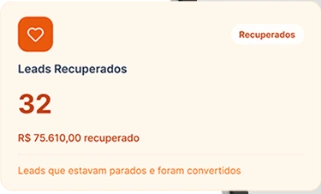
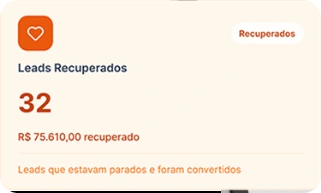
Corrige fragmentos nos cards do hero e o ritmo dos feixes
Fragmentos sobrepostos
- Os recortes dos cards eram retângulos e carregavam junto um pedaço do
  notebook atrás deles: a tela verde, o texto vermelho, a borda branca.
  Esse pedaço viajava com o card enquanto ele flutuava, e era o que
  aparecia como elemento sobrepondo o outro
- Cada card agora é mascarado só ao próprio corpo, pela diferença entre o
  composto e o notebook limpo, com a máscara fechada num retângulo
  arredondado para a borda sair limpa
- A sombra saía junto com o fundo e volta como drop-shadow no CSS,
  acompanhando o card enquanto ele se move

Feixes de luz
- Trocado o easing por linear: o ponto desacelerava no fim e parecia
  travar antes de reiniciar
- Pausa entre voltas reduzida de 55% para 30% do ciclo
- Na faixa verde o feixe não aparecia, porque o traço já era quase branco
  e o ponto também. O traço ficou mais discreto e o ponto foi a branco
  cheio

diff --git a/css/styles.css b/css/styles.css
@@ -162,17 +162,24 @@ a { color: inherit; }
                     transparent 0%, var(--sweep) 50%, transparent 100%);
   background-repeat: no-repeat;
   background-size: 55% 100%;
-  animation: hg-sweep 2.6s cubic-bezier(0.4, 0, 0.3, 1) infinite;
+  /* linear: o ponto atravessa em velocidade constante. Com easing ele
+     desacelerava no fim e parecia travar antes de reiniciar. */
+  animation: hg-sweep 2.4s linear infinite;
 }
 @keyframes hg-sweep {
-  0%       { background-position: -70% 0; }
-  45%,100% { background-position: 170% 0; }
+  0%       { background-position: -65% 0; }
+  70%,100% { background-position: 165% 0; }
 }
 
 /* o ponto precisa ser mais claro que o traço: branco sobre fundo escuro,
    lima onde o rótulo já está sobre fundo claro */
 .eyebrow            { --sweep: rgba(255, 255, 255, 0.95); }
 .sec--paper .eyebrow{ --sweep: var(--lime); }
+
+/* na faixa verde o rótulo já é quase branco, então o ponto branco sumia.
+   O traço fica mais discreto e o ponto vai a branco cheio. */
+.eyebrow--on-teal          { --sweep: #fff; }
+.eyebrow--on-teal::before  { background-color: rgba(237, 240, 238, 0.4); }
 /* No Figma este eyebrow está #1b6b5b sobre fundo #1b6b5b (invisível).
    Mantido legível de propósito — ver nota no README. */
 .eyebrow--on-teal { color: rgba(237, 240, 238, 0.85); }
@@ -1084,6 +1091,9 @@ a { color: inherit; }
 }
 .hero-card img {
   width: 100%;
+  /* os recortes trazem só o corpo do card; a sombra que estava no bitmap saiu
+     junto com o fundo e volta aqui, acompanhando o card enquanto ele flutua */
+  filter: drop-shadow(0 9px 20px rgba(5, 34, 29, 0.17));
   animation: hg-drift var(--dur, 6s) ease-in-out var(--delay, 0s) infinite;
 }
 

diff --git a/index.html b/index.html
@@ -75,19 +75,19 @@
             <img src="assets/hero-card-oportunidades.webp" alt="" aria-hidden="true"
                  style="--dur:6.4s;--delay:0s;--amp:19%;--rot:0.6deg">
           </span>
-          <span class="hero-card" style="--x:72.02%;--y:26.52%;--w:10.82%">
+          <span class="hero-card" style="--x:72.05%;--y:26.52%;--w:10.79%">
             <img src="assets/hero-card-promotores.webp" alt="" aria-hidden="true"
                  style="--dur:5.2s;--delay:-1.8s;--amp:25%;--rot:-1deg">
           </span>
-          <span class="hero-card" style="--x:27.82%;--y:33.95%;--w:10.13%">
+          <span class="hero-card" style="--x:27.82%;--y:34.0%;--w:10.13%">
             <img src="assets/hero-card-leads.webp" alt="" aria-hidden="true"
                  style="--dur:7.1s;--delay:-3.4s;--amp:27%;--rot:0.9deg">
           </span>
-          <span class="hero-card" style="--x:81.89%;--y:45.33%;--w:12.78%">
+          <span class="hero-card" style="--x:81.99%;--y:45.33%;--w:12.68%">
             <img src="assets/hero-card-nps.webp" alt="" aria-hidden="true"
                  style="--dur:5.8s;--delay:-0.9s;--amp:25%;--rot:-0.8deg">
           </span>
-          <span class="hero-card" style="--x:29.50%;--y:48.82%;--w:17.03%">
+          <span class="hero-card" style="--x:29.5%;--y:48.95%;--w:17.0%">
             <img src="assets/hero-card-vendas.webp" alt="" aria-hidden="true"
                  style="--dur:6.9s;--delay:-2.6s;--amp:17%;--rot:0.55deg">
           </span>
